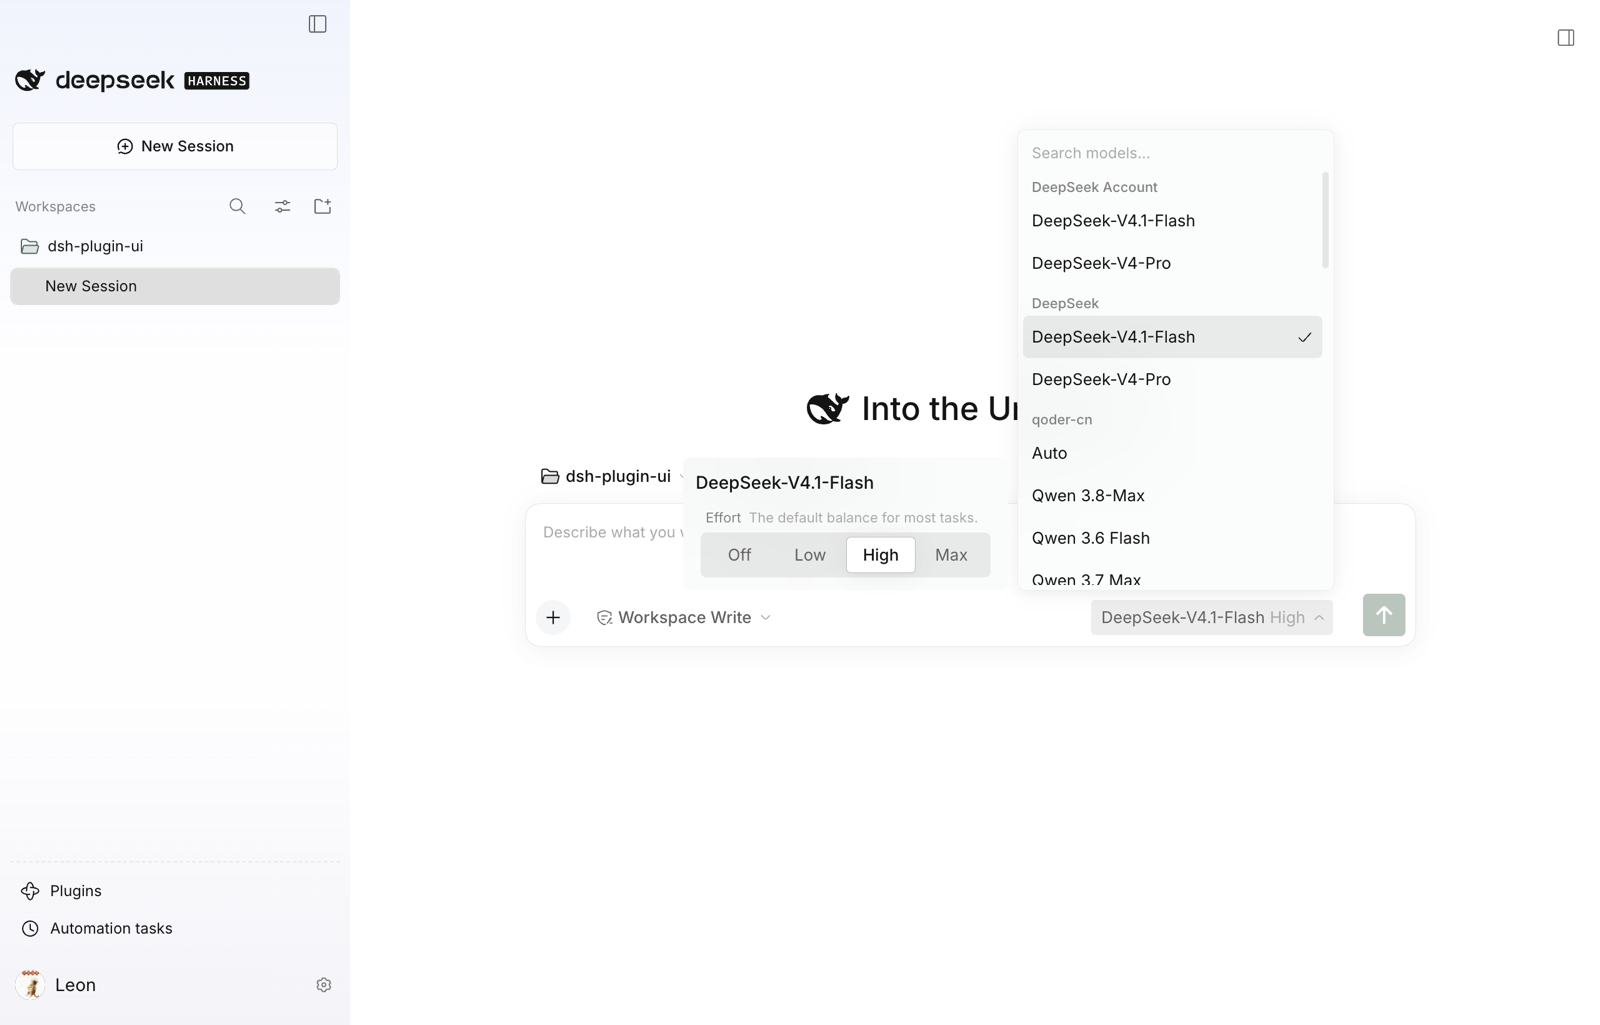
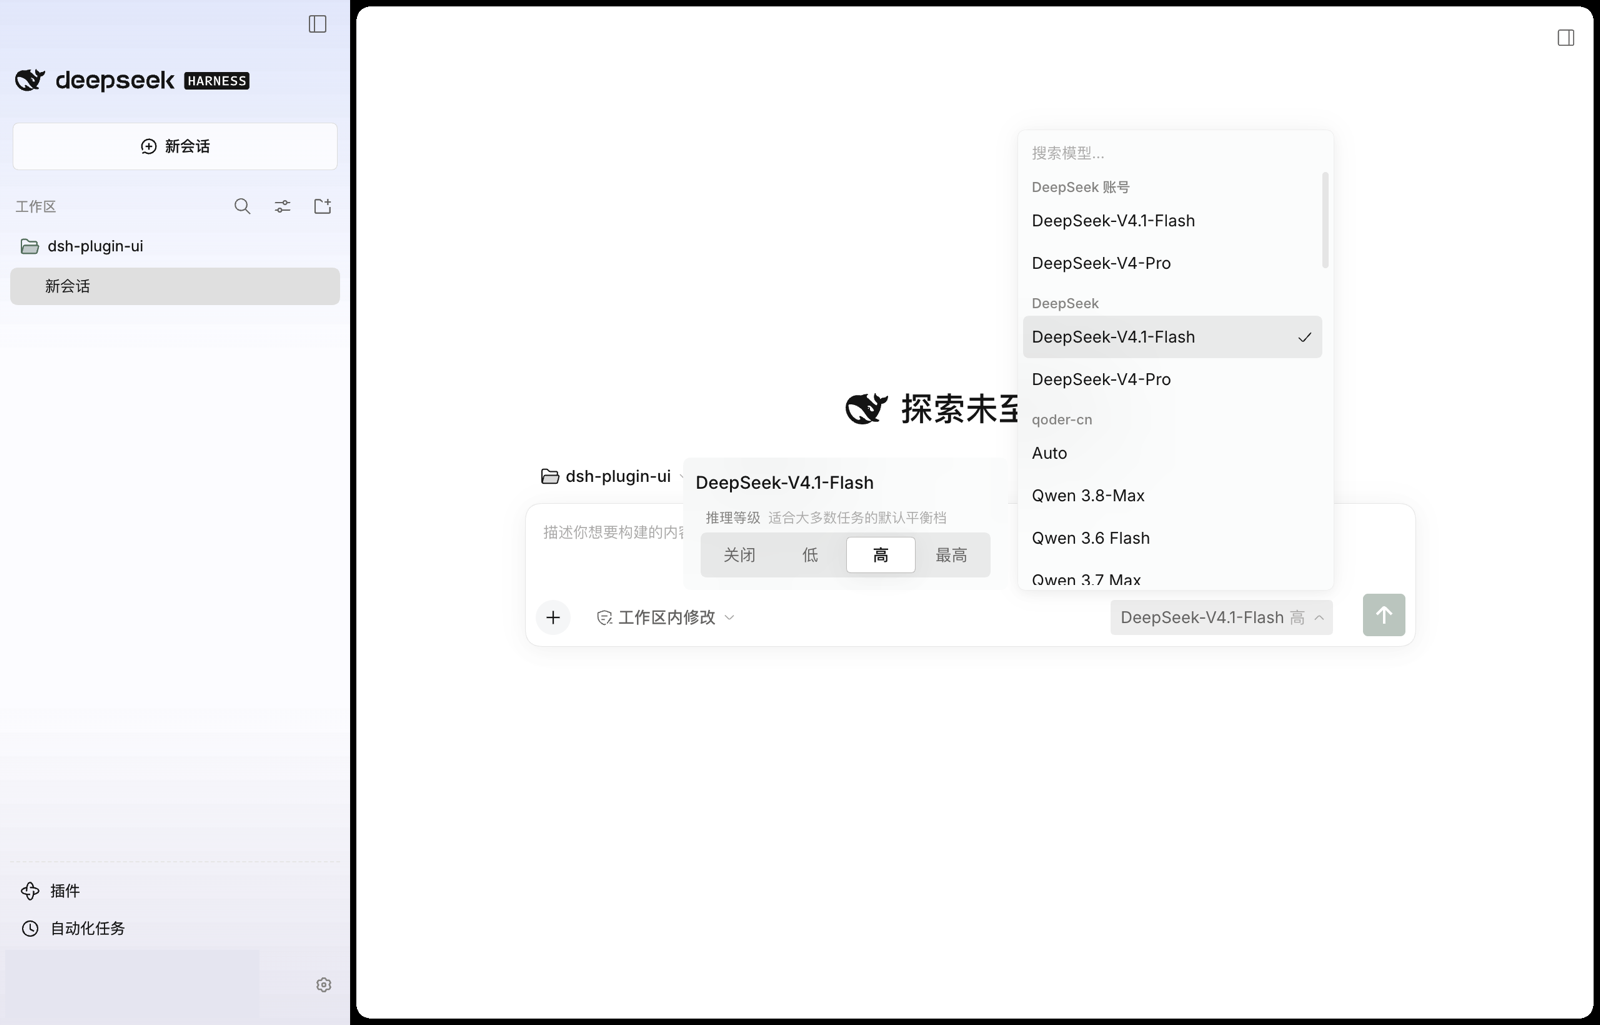
feat(model): localize effort labels and redact showcase account details
Known reasoning-effort ids now render localized names and hints (中文: 关闭/低/高/最高)
with provider labels as the fallback; the README screenshots switch to the
Chinese UI and mask the account identity.

diff --git a/dist/client.js b/dist/client.js
@@ -60,6 +60,19 @@ function orderModelProviders(groups) {
 
 // src/client/ModelSelect.tsx
 var import_jsx_runtime = require("react/jsx-runtime");
+var KNOWN_EFFORTS = /* @__PURE__ */ new Set(["off", "none", "minimal", "low", "medium", "high", "max"]);
+function knownEffort(id) {
+  const key = id?.toLowerCase();
+  return key !== void 0 && KNOWN_EFFORTS.has(key) ? key : void 0;
+}
+function effortLabelFor(t, id, fallback) {
+  const key = knownEffort(id);
+  return key === void 0 ? fallback : t(`effort.${key}`);
+}
+function effortHintFor(t, id, fallback) {
+  const key = knownEffort(id);
+  return key === void 0 ? fallback : t(`effort.hint.${key}`);
+}
 var MEASURE_STYLE = { visibility: "hidden", left: 0, top: 0 };
 function ModelSelect({ locked, available, directory, load, select, t }) {
   const state = (0, import_react.useSyncExternalStore)(
@@ -109,7 +122,7 @@ function ModelSelect({ locked, available, directory, load, select, t }) {
   const currentChoice = choices[selectedIndex];
   const reasoning = currentChoice?.model.reasoning;
   const effectiveEffort = state.current?.reasoningEffort ?? reasoning?.defaultEffort;
-  const effortLabel = currentChoice === void 0 ? void 0 : reasoning === void 0 ? state.retainedEffort : effectiveEffort === void 0 ? t("effort.providerDefault") : reasoning.efforts.find((level) => level.id === effectiveEffort)?.name ?? effectiveEffort;
+  const effortLabel = currentChoice === void 0 ? void 0 : reasoning === void 0 ? state.retainedEffort : effectiveEffort === void 0 ? t("effort.providerDefault") : effortLabelFor(t, effectiveEffort, reasoning.efforts.find((level) => level.id === effectiveEffort)?.name ?? effectiveEffort);
   const shownChoice = preview === null ? currentChoice : choices.find((choice) => choice.group.id === preview.provider && choice.model.id === preview.model) ?? currentChoice;
   const shownReasoning = shownChoice?.model.reasoning;
   const shownEffort = shownChoice === currentChoice ? effectiveEffort : shownReasoning?.defaultEffort;
@@ -118,10 +131,11 @@ function ModelSelect({ locked, available, directory, load, select, t }) {
     ...shownReasoning.efforts.map((effort) => ({
       key: `effort:${effort.id}`,
       effort: effort.id,
-      label: effort.name
+      label: effortLabelFor(t, effort.id, effort.name)
     }))
   ], [shownReasoning, t]);
-  const effortDescription = shownReasoning?.efforts.find((level) => level.id === shownEffort)?.description;
+  const providerDescription = shownReasoning?.efforts.find((level) => level.id === shownEffort)?.description;
+  const effortDescription = effortHintFor(t, shownEffort, providerDescription);
   const { pending } = state;
   const busy = pending !== null;
   const reload = () => {
@@ -1657,7 +1671,21 @@ var modelZh = {
   "menu.aria": "\u6A21\u578B\u4E0E\u63A8\u7406\u7B49\u7EA7",
   "menu.model": "\u6A21\u578B",
   "menu.effort": "\u63A8\u7406\u7B49\u7EA7",
-  "effort.providerDefault": "Default",
+  "effort.providerDefault": "\u9ED8\u8BA4",
+  "effort.off": "\u5173\u95ED",
+  "effort.none": "\u65E0",
+  "effort.minimal": "\u6700\u4F4E",
+  "effort.low": "\u4F4E",
+  "effort.medium": "\u4E2D",
+  "effort.high": "\u9AD8",
+  "effort.max": "\u6700\u9AD8",
+  "effort.hint.off": "\u4E0D\u8FDB\u884C\u63A8\u7406",
+  "effort.hint.none": "\u4E0D\u8FDB\u884C\u63A8\u7406",
+  "effort.hint.minimal": "\u6700\u4F4E\u9650\u5EA6\u7684\u63A8\u7406",
+  "effort.hint.low": "\u66F4\u5FEB\u54CD\u5E94\uFF0C\u9002\u5408\u7B80\u5355\u4EFB\u52A1",
+  "effort.hint.medium": "\u517C\u987E\u901F\u5EA6\u4E0E\u6DF1\u5EA6",
+  "effort.hint.high": "\u9002\u5408\u5927\u591A\u6570\u4EFB\u52A1\u7684\u9ED8\u8BA4\u5E73\u8861\u6863",
+  "effort.hint.max": "\u5C3D\u53EF\u80FD\u6DF1\u5165\u63A8\u7406",
   "status.loading": "\u6B63\u5728\u5237\u65B0\u6A21\u578B\u5217\u8868\u2026",
   "error.action": "\u6A21\u578B\u64CD\u4F5C\u5931\u8D25\uFF1A{message}",
   "error.sessionInUse": "\u5F53\u524D\u4F1A\u8BDD\u5DF2\u88AB\u5360\u7528\uFF0C\u53EF\u80FD\u662F\u5176\u4ED6\u6B63\u5728\u8FD0\u884C\u7684 DSH \u5BFC\u81F4\u7684\uFF08\u5982\u5176\u4ED6 dsh web\u3001\u684C\u9762\u7AEF\uFF09\uFF0C\u8BF7\u9000\u51FA\u5176\u4ED6\u6B63\u5728\u8FD0\u884C\u7684 DSH \u540E\u91CD\u8BD5\u3002",
@@ -1680,6 +1708,20 @@ var modelEn = {
   "menu.model": "Model",
   "menu.effort": "Effort",
   "effort.providerDefault": "Default",
+  "effort.off": "Off",
+  "effort.none": "None",
+  "effort.minimal": "Minimal",
+  "effort.low": "Low",
+  "effort.medium": "Medium",
+  "effort.high": "High",
+  "effort.max": "Max",
+  "effort.hint.off": "No reasoning",
+  "effort.hint.none": "No reasoning",
+  "effort.hint.minimal": "Minimal reasoning",
+  "effort.hint.low": "Faster responses for simple tasks",
+  "effort.hint.medium": "Balanced speed and depth",
+  "effort.hint.high": "The default balance for most tasks",
+  "effort.hint.max": "Maximum reasoning depth",
   "status.loading": "Refreshing model list\u2026",
   "error.action": "Model operation failed: {message}",
   "error.sessionInUse": "This session is already in use, possibly by another running DSH instance (such as dsh web or the desktop app). Quit other running DSH instances and try again.",

diff --git a/src/client/ModelSelect.tsx b/src/client/ModelSelect.tsx
@@ -48,6 +48,27 @@ interface EffortChoice {
   label: string
 }
 
+/** Reasoning-effort ids the plugin localizes; provider-specific ids keep their own names. */
+const KNOWN_EFFORTS = new Set(['off', 'none', 'minimal', 'low', 'medium', 'high', 'max'])
+
+/** @returns the lowercase dictionary key for a known effort id. */
+function knownEffort(id: string | undefined): string | undefined {
+  const key = id?.toLowerCase()
+  return key !== undefined && KNOWN_EFFORTS.has(key) ? key : undefined
+}
+
+/** Localized level name, falling back to the provider's label. */
+function effortLabelFor(t: PropsLocale<'model'>['t'], id: string | undefined, fallback: string): string {
+  const key = knownEffort(id)
+  return key === undefined ? fallback : t(`effort.${key}`)
+}
+
+/** Localized one-line hint, falling back to the provider's description. */
+function effortHintFor(t: PropsLocale<'model'>['t'], id: string | undefined, fallback: string | undefined): string | undefined {
+  const key = knownEffort(id)
+  return key === undefined ? fallback : t(`effort.hint.${key}`)
+}
+
 /** Unplaced portal card: hidden but laid out at a fixed origin so offsetWidth/offsetHeight are real (Menu primitive's measure pass). */
 const MEASURE_STYLE: CSSProperties = { visibility: 'hidden', left: 0, top: 0 }
 
@@ -127,7 +148,7 @@ export function ModelSelect(
       ? state.retainedEffort
       : effectiveEffort === undefined
         ? t('effort.providerDefault')
-        : reasoning.efforts.find(level => level.id === effectiveEffort)?.name ?? effectiveEffort
+        : effortLabelFor(t, effectiveEffort, reasoning.efforts.find(level => level.id === effectiveEffort)?.name ?? effectiveEffort)
   const shownChoice = preview === null
     ? currentChoice
     : choices.find(choice => choice.group.id === preview.provider && choice.model.id === preview.model) ?? currentChoice
@@ -144,10 +165,11 @@ export function ModelSelect(
       ...shownReasoning.efforts.map((effort: ModelReasoningEffort) => ({
         key: `effort:${effort.id}`,
         effort: effort.id,
-        label: effort.name,
+        label: effortLabelFor(t, effort.id, effort.name),
       })),
     ], [shownReasoning, t])
-  const effortDescription = shownReasoning?.efforts.find(level => level.id === shownEffort)?.description
+  const providerDescription = shownReasoning?.efforts.find(level => level.id === shownEffort)?.description
+  const effortDescription = effortHintFor(t, shownEffort, providerDescription)
   const { pending } = state
   const busy = pending !== null
 

diff --git a/src/client/locales.js b/src/client/locales.js
@@ -128,7 +128,21 @@ export const modelZh = {
   'menu.aria': '模型与推理等级',
   'menu.model': '模型',
   'menu.effort': '推理等级',
-  'effort.providerDefault': 'Default',
+  'effort.providerDefault': '默认',
+  'effort.off': '关闭',
+  'effort.none': '无',
+  'effort.minimal': '最低',
+  'effort.low': '低',
+  'effort.medium': '中',
+  'effort.high': '高',
+  'effort.max': '最高',
+  'effort.hint.off': '不进行推理',
+  'effort.hint.none': '不进行推理',
+  'effort.hint.minimal': '最低限度的推理',
+  'effort.hint.low': '更快响应，适合简单任务',
+  'effort.hint.medium': '兼顾速度与深度',
+  'effort.hint.high': '适合大多数任务的默认平衡档',
+  'effort.hint.max': '尽可能深入推理',
   'status.loading': '正在刷新模型列表…',
   'error.action': '模型操作失败：{message}',
   'error.sessionInUse': '当前会话已被占用，可能是其他正在运行的 DSH 导致的（如其他 dsh web、桌面端），请退出其他正在运行的 DSH 后重试。',
@@ -153,6 +167,20 @@ export const modelEn = {
   'menu.model': 'Model',
   'menu.effort': 'Effort',
   'effort.providerDefault': 'Default',
+  'effort.off': 'Off',
+  'effort.none': 'None',
+  'effort.minimal': 'Minimal',
+  'effort.low': 'Low',
+  'effort.medium': 'Medium',
+  'effort.high': 'High',
+  'effort.max': 'Max',
+  'effort.hint.off': 'No reasoning',
+  'effort.hint.none': 'No reasoning',
+  'effort.hint.minimal': 'Minimal reasoning',
+  'effort.hint.low': 'Faster responses for simple tasks',
+  'effort.hint.medium': 'Balanced speed and depth',
+  'effort.hint.high': 'The default balance for most tasks',
+  'effort.hint.max': 'Maximum reasoning depth',
   'status.loading': 'Refreshing model list…',
   'error.action': 'Model operation failed: {message}',
   'error.sessionInUse': 'This session is already in use, possibly by another running DSH instance (such as dsh web or the desktop app). Quit other running DSH instances and try again.',

diff --git a/README.md b/README.md
@@ -8,15 +8,15 @@ A Qoder-style UI layer for DeepSeek Harness: palette skin, single-card model and
 
 | 浅色 Light | 深色 Dark |
 | --- | --- |
-| ![Qoder UI light](docs/images/showcase-light.png) | ![Qoder UI dark](docs/images/showcase-dark.png) |
+| ![Qoder 界面 · 浅色](docs/images/showcase-light.png) | ![Qoder 界面 · 深色](docs/images/showcase-dark.png) |
 
-*模型与推理强度同一张卡片 / Model and reasoning effort in one card*
+*模型与推理强度同一张卡片（账号信息已遮挡）*
 
-![Model and reasoning effort](docs/images/showcase-models.png)
+![模型与推理强度](docs/images/showcase-models.png)
 
-*Appearance 下的调色板预览卡 / Palette previews under Appearance*
+*Appearance 下的调色板预览卡*
 
-![Palette previews under Appearance](docs/images/showcase-settings.png)
+![调色板预览](docs/images/showcase-settings.png)
 
 ## 包含的内容
 
@@ -28,7 +28,7 @@ A Qoder-style UI layer for DeepSeek Harness: palette skin, single-card model and
 | 侧栏底部分区 | Plugins 与 Automation tasks 固定在滚动区域之后、账号行正上方，上缘一条 `border-l2` 浅色虚线（跟随皮肤配色）与工作区隔离。 |
 | 发送按钮 | 编辑器的发送键改为 Qoder 的圆角方形（跟随 `--dsw-radius-sm`），不再使用圆形。 |
 | 首屏角标 | 隐藏 hero 上的预览/版本角标（`.previewBadge`）。 |
-| 模型与强度 | 用单张卡片替换官方模型菜单：左侧强度卡（Off / Low / High / Max 与说明），右侧模型卡（按供应商分组）；选中模型后菜单保持打开，可继续调整强度；支持搜索、加载失败重试与空状态。触发键显示“模型 + 当前强度”。 |
+| 模型与强度 | 用单张卡片替换官方模型菜单：左侧强度卡（关闭 / 低 / 高 / 最高，带说明），右侧模型卡（按供应商分组）；中文界面显示中文本地化的强度名与提示，未知强度沿用提供方文案。选中模型后菜单保持打开，可继续调整强度；支持搜索、加载失败重试与空状态。触发键显示“模型 + 当前强度”。 |
 | 账号行（仅 Desktop） | 左下角账号行保持官方显示：登录后 24px 头像 + 名称（44px 行高、14px 字），未登录为官方 ⋯ + “更多”（32px 行高）；右侧仅追加快捷座位（可执行内置动作或其他插件提供的动作）。 |
 | 账号菜单（仅 Desktop） | 与官方一致：设置（带设置快捷键）、联系我们、退出登录；未登录时为设置、联系我们、登录。 |
 | 快捷设置菜单 | 由账号行右侧齿轮座位打开，语言 / 明暗 / 字号各成一组。菜单刻意保持单层，当前值以 “✓” 标出，不依赖多级子菜单。 |
